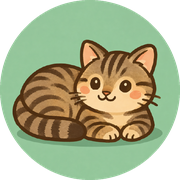
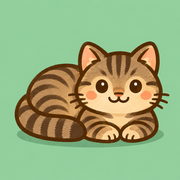
Add files via upload

diff --git a/index.html b/index.html
@@ -3,9 +3,9 @@
 <meta name="viewport" content="width=device-width, initial-scale=1, viewport-fit=cover">
 <title>Weekmenu</title>
 <meta name="theme-color" content="#ffffff">
-<link rel="manifest" href="manifest.webmanifest?v=3">
-<link rel="icon" href="icon-192.png?v=2" type="image/png">
-<link rel="apple-touch-icon" href="icon-180.png?v=2">
+<link rel="manifest" href="manifest.webmanifest?v=5">
+<link rel="icon" href="icon-192.png?v=5" type="image/png">
+<link rel="apple-touch-icon" href="icon-180.png?v=5">
 <meta name="apple-mobile-web-app-capable" content="yes">
 <meta name="apple-mobile-web-app-title" content="Weekmenu">
 <script src="config.js"></script>
